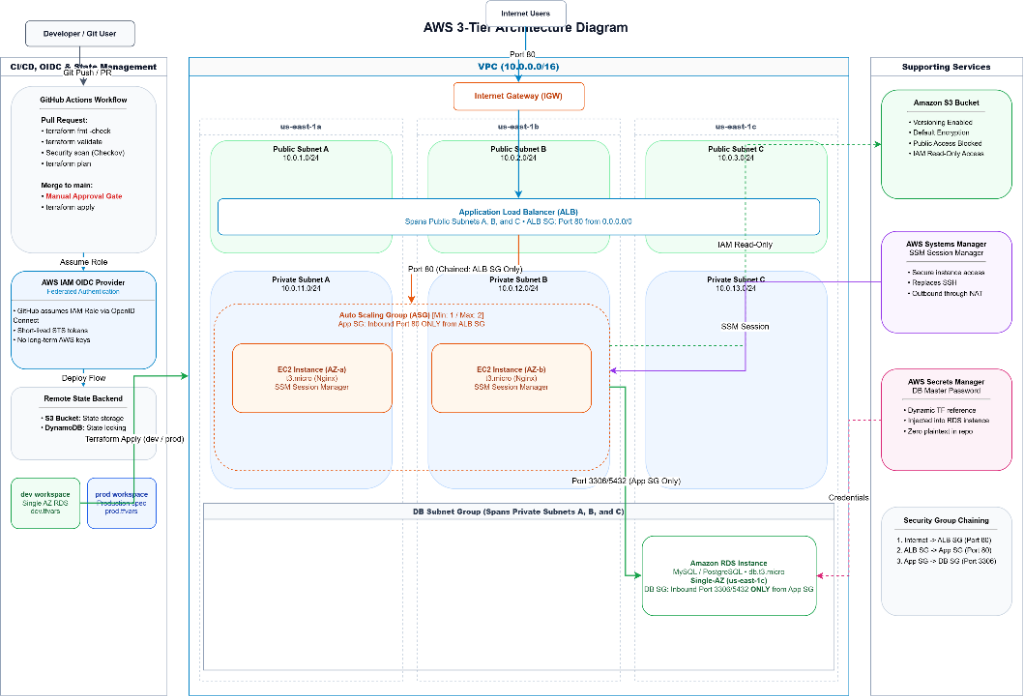
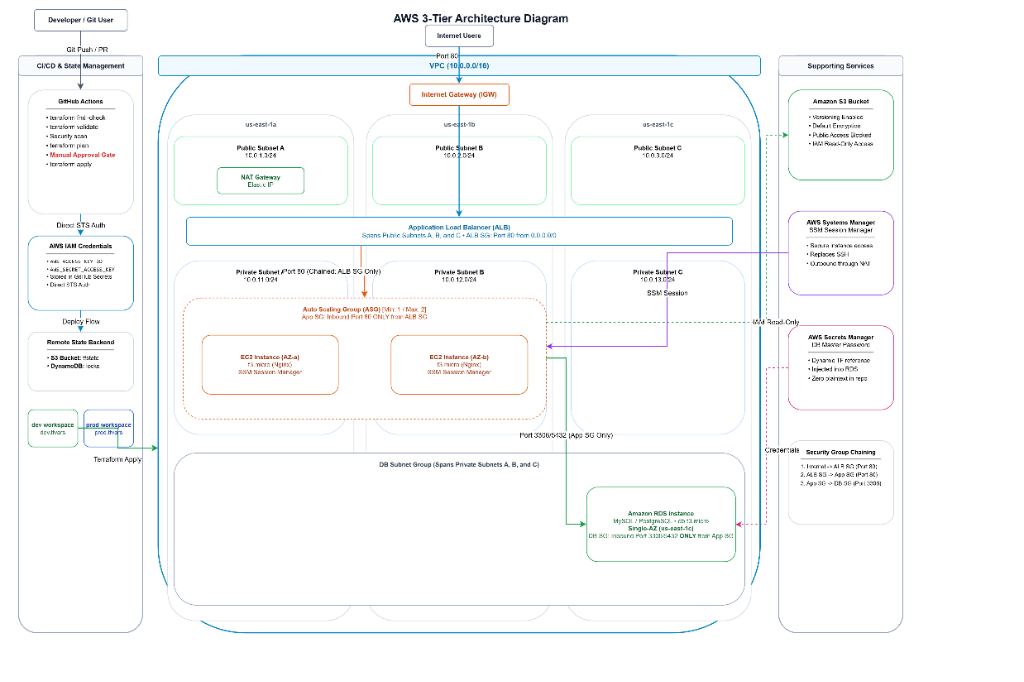
feat: complete 3-tier Terraform deployment with GitHub Actions CI/CD

diff --git a/README.md b/README.md
@@ -134,9 +134,14 @@ aws dynamodb create-table \
   --key-schema AttributeName=LockID,KeyType=HASH \
   --billing-mode PAY_PER_REQUEST \
   --region us-east-1
+
+# 3. Create CI/CD IAM User and Access Keys
+aws iam create-user --user-name github-actions-deployer
+aws iam attach-user-policy --user-name github-actions-deployer --policy-arn arn:aws:iam::aws:policy/AdministratorAccess
+aws iam create-access-key --user-name github-actions-deployer
 ```
 
-Make sure the bucket name in `versions.tf` matches your S3 bucket.
+Add the generated `AccessKeyId` and `SecretAccessKey` to your GitHub Repository Secrets (`AWS_ACCESS_KEY_ID` and `AWS_SECRET_ACCESS_KEY`). Make sure the bucket name in `versions.tf` matches your S3 bucket.
 
 ### 2. Initialize and Create Workspaces
 
@@ -180,9 +185,16 @@ terraform apply -var-file="environments/prod.tfvars" -auto-approve
 
 ## CI/CD Pipeline
 
-The GitHub Actions workflows under `.github/workflows/` automate the delivery pipeline:
-- `terraform-pr.yml`: Triggers on pull requests to `main`. Runs `terraform fmt -check`, `terraform validate`, Checkov security scan, and `terraform plan` for both workspaces.
-- `terraform-apply.yml`: Triggers on push to `main`. Deploys `dev` automatically, then pauses for manual environment approval before deploying `prod`. Supports OIDC federation and repository secrets.
+The GitHub Actions workflows under `.github/workflows/` automate the infrastructure delivery pipeline:
+
+### Repository Secrets Required
+Set the following secrets in GitHub (**Settings -> Secrets and variables -> Actions**):
+- `AWS_ACCESS_KEY_ID`: AWS Access Key ID for CI/CD deployment
+- `AWS_SECRET_ACCESS_KEY`: AWS Secret Access Key for CI/CD deployment
+
+### Workflows
+- **`terraform-pr.yml`**: Triggers on pull requests targeting `main`. Runs `terraform fmt -check`, `terraform validate`, Checkov security and compliance scan, and generates `terraform plan` matrix for both `dev` and `prod`.
+- **`terraform-apply.yml`**: Triggers on pushes to `main`. Deploys `dev` automatically, outputs the ALB DNS URL, and holds `prod` behind manual approval.
 
 ## Teardown
 
